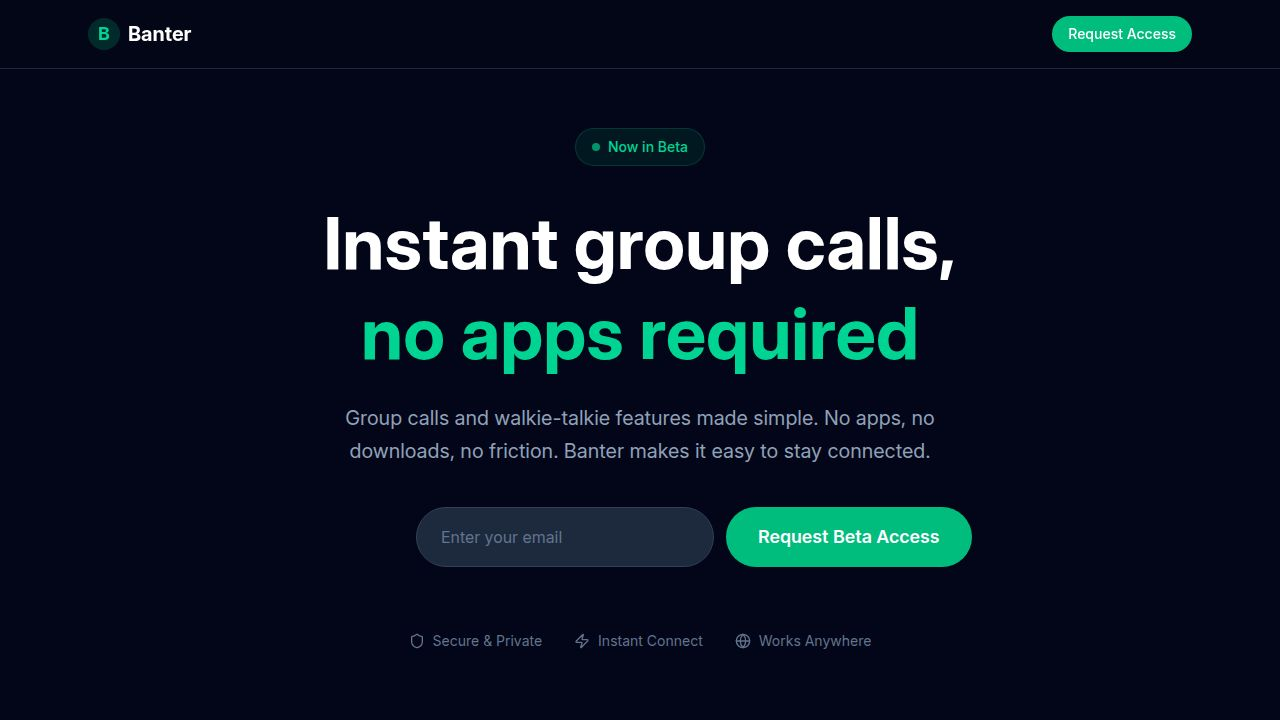
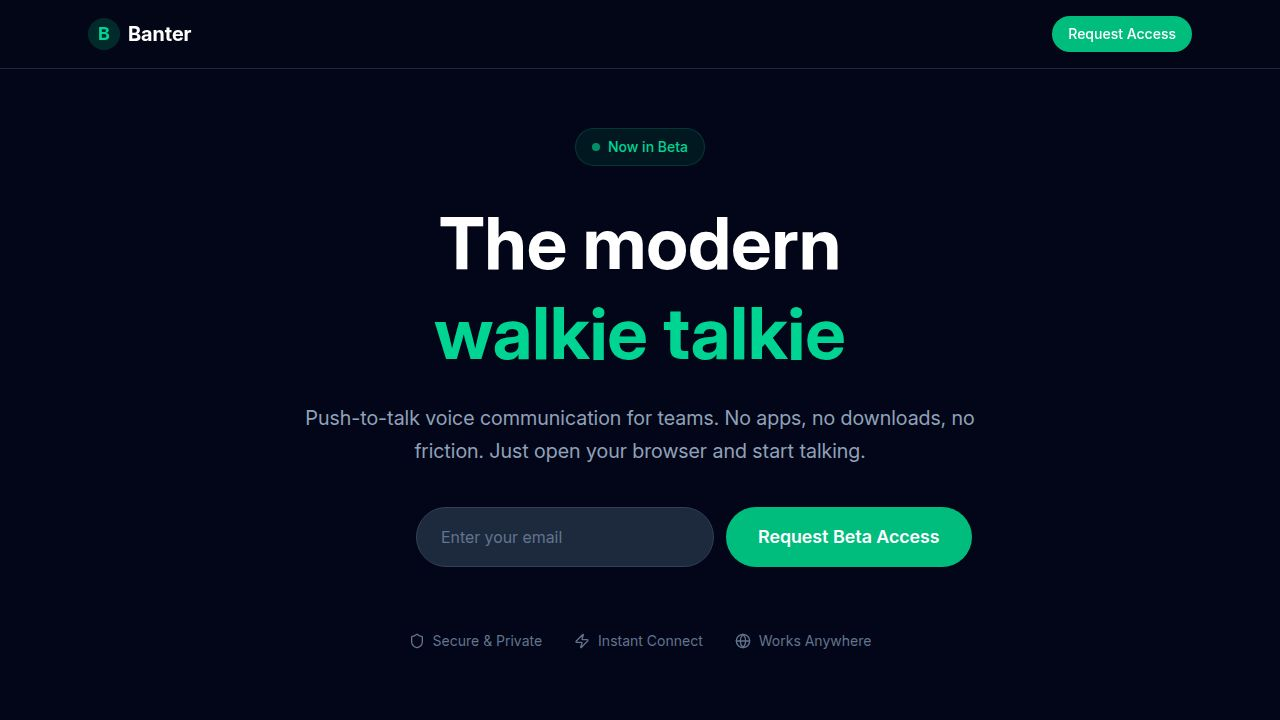
Update marketing page to emphasize modern walkie talkie
Update the marketing page copy and meta tags in `client/src/pages/home.tsx` and `client/index.html` to reflect the new "modern walkie talkie" messaging instead of "group calls".

Replit-Commit-Author: Agent
Replit-Commit-Session-Id: 73a3545f-da15-48d5-aaf6-4e7e4eedf941
Replit-Commit-Checkpoint-Type: full_checkpoint
Replit-Commit-Event-Id: 1b4cedfe-bd80-48c9-81a0-f5c548bbd664
Replit-Commit-Screenshot-Url: https://storage.googleapis.com/screenshot-production-us-central1/7852e7fb-5915-4efb-8f61-9ffd26488c12/73a3545f-da15-48d5-aaf6-4e7e4eedf941/ntuSjVO
Replit-Helium-Checkpoint-Created: true

Changed region(s): [[0.25, 0.275, 0.75, 0.3972], [0.25, 0.55, 0.75, 0.6417], [0.2812, 0.4278, 0.7188, 0.5194]]

diff --git a/client/src/pages/home.tsx b/client/src/pages/home.tsx
@@ -76,14 +76,14 @@ export default function Home() {
           </div>
           
           <h1 className="text-5xl md:text-7xl font-bold mb-6 leading-tight" data-testid="text-title">
-            Instant group calls,
+            The modern
             <br />
-            <span className="text-emerald-400">no apps required</span>
+            <span className="text-emerald-400">walkie talkie</span>
           </h1>
           
           <p className="text-xl text-slate-400 mb-10 max-w-2xl mx-auto leading-relaxed">
-            Group calls and walkie-talkie features made simple. No apps, no downloads, no friction. 
-            Banter makes it easy to stay connected.
+            Push-to-talk voice communication for teams. No apps, no downloads, no friction. 
+            Just open your browser and start talking.
           </p>
           
           <div id="request-access" className="max-w-md mx-auto mb-16">
@@ -207,7 +207,7 @@ export default function Home() {
               <div>
                 <h3 className="text-lg font-bold mb-2">Always Available</h3>
                 <p className="text-slate-400">
-                  Your conference room is always on. Drop in whenever you need to connect with your team.
+                  Your channel is always on. Drop in whenever you need to connect with your team.
                 </p>
               </div>
             </div>
@@ -271,7 +271,7 @@ export default function Home() {
             </div>
             
             <p className="text-slate-500 text-sm">
-              Instant group calls for modern teams
+              The modern walkie talkie for teams
             </p>
           </div>
         </div>

diff --git a/client/index.html b/client/index.html
@@ -6,14 +6,14 @@
     <meta name="apple-mobile-web-app-capable" content="yes" />
     <meta name="apple-mobile-web-app-status-bar-style" content="black-translucent" />
 
-    <meta property="og:title" content="Banter" />
-    <meta property="og:description" content="Call to talk. Instant audio conference via phone." />
+    <meta property="og:title" content="Banter - The Modern Walkie Talkie" />
+    <meta property="og:description" content="Push-to-talk voice communication for teams. No apps, no downloads. Just open your browser and start talking." />
     <meta property="og:type" content="website" />
     <meta property="og:image" content="https://replit.com/public/images/opengraph.png" />
     <meta name="twitter:card" content="summary_large_image" />
     <meta name="twitter:site" content="@replit" />
-    <meta name="twitter:title" content="Banter" />
-    <meta name="twitter:description" content="Call to talk. Instant audio conference via phone." />
+    <meta name="twitter:title" content="Banter - The Modern Walkie Talkie" />
+    <meta name="twitter:description" content="Push-to-talk voice communication for teams. No apps, no downloads. Just open your browser and start talking." />
     <meta name="twitter:image" content="https://replit.com/public/images/opengraph.png" />
 
     <link rel="icon" type="image/png" href="/favicon.png" />
